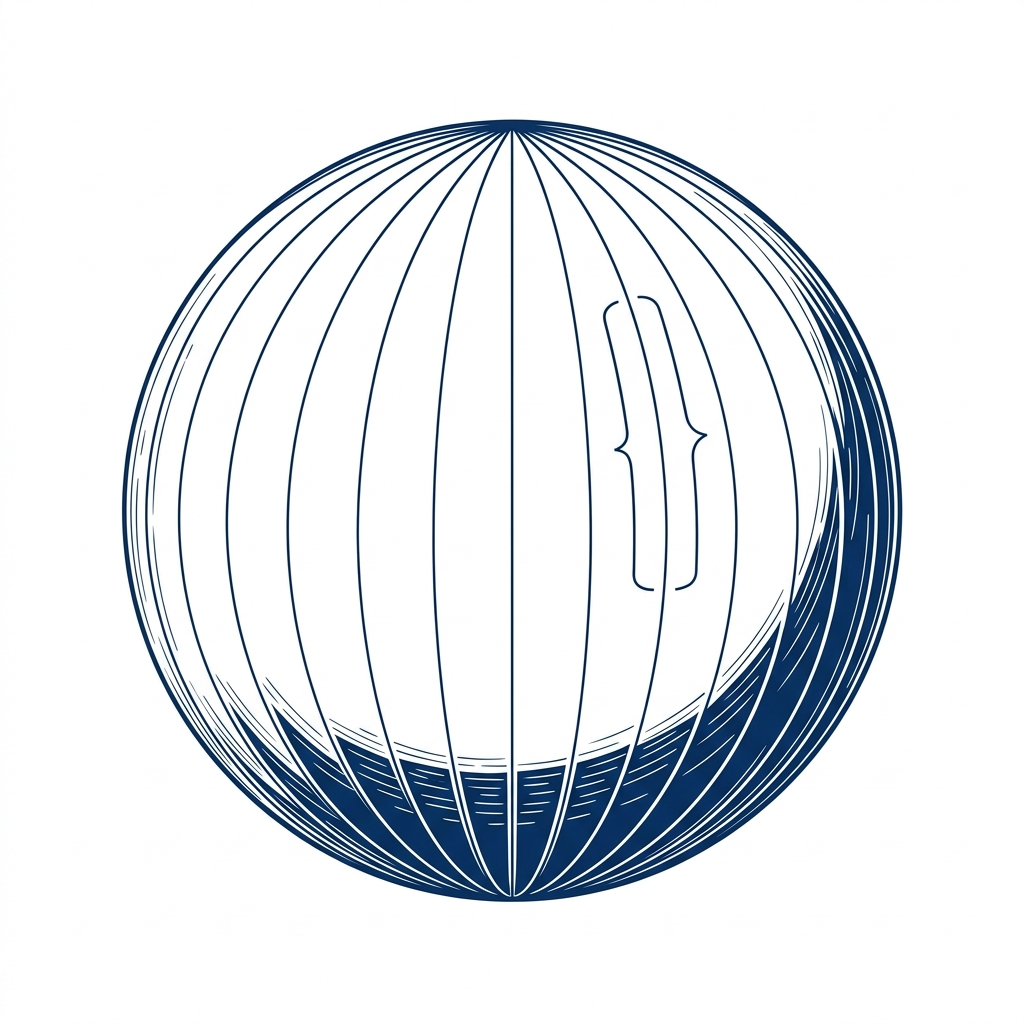
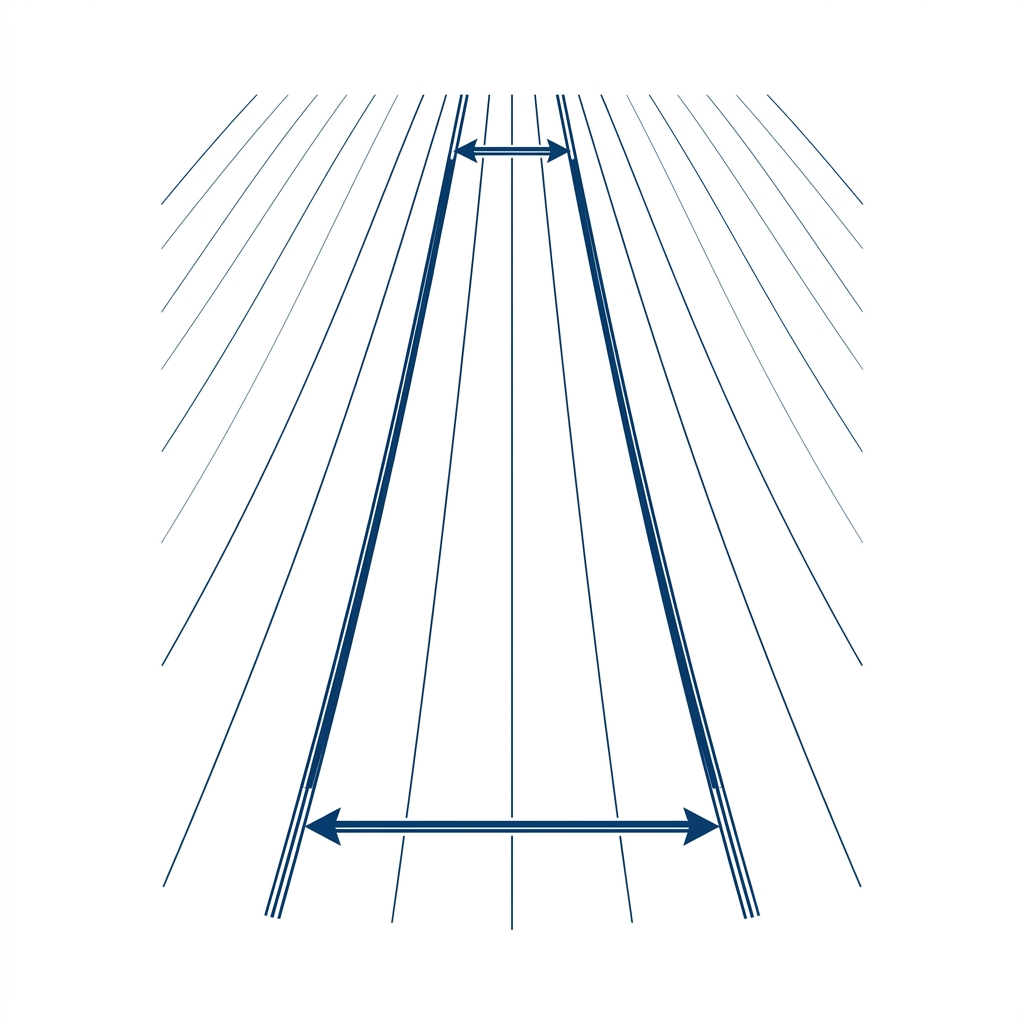
fix: flashcard scoring, Terms label, and redo 3 illustrations
Scoring fix (data flows cleanly through the app):
- Expose cards from useFlashcardSession so FlashcardDeck can reference
  the actual filtered session cards at completion
- Pass masteredIds: sessionCards.map(c => c.id) and score: total —
  completing the deck means you have seen and pressed Next on every card
- This persists correctly to local storage via updateFlashcards, so
  the 0/10 on topic screens survives refresh

Label fix:
- TopicHeader: TERMS → FLASHCARDS (the stat box shows flashcard mastery)

Image redos:
- card-06-position-course-speed-fc-3: clearer meridian spacing diagram
  showing variable distance between meridians at different latitudes
- term-06-latitude: cross-section circle diagram with angle arc, simpler
  than globe render
- term-05-tss: tanker ships in lanes instead of yachts — correct for
  a shipping lane context

Changed region(s): [[0.0938, 0.0938, 0.9062, 0.9062]]

diff --git a/src/components/organisms/FlashcardDeck/FlashcardDeck.tsx b/src/components/organisms/FlashcardDeck/FlashcardDeck.tsx
@@ -16,7 +16,7 @@ interface FlashcardDeckProps {
 }
 
 export function FlashcardDeck({ topicId, cards, cardIds, onComplete, onProgressChange }: FlashcardDeckProps) {
-  const { currentCard, nextCard, isFlipped, flip, next, progress, isComplete, index, total } =
+  const { currentCard, nextCard, isFlipped, flip, next, progress, isComplete, index, total, cards: sessionCards } =
     useFlashcardSession(topicId, cards, cardIds)
 
   const preload = useImagePreload()
@@ -33,9 +33,9 @@ export function FlashcardDeck({ topicId, cards, cardIds, onComplete, onProgressC
 
   useEffect(() => {
     if (isComplete) {
-      onCompleteRef.current({ masteredIds: [], score: 0, total })
+      onCompleteRef.current({ masteredIds: sessionCards.map(c => c.id), score: total, total })
     }
-  }, [isComplete, total])
+  }, [isComplete, total, sessionCards])
 
   if (!currentCard) return null
 

diff --git a/src/components/organisms/TopicHeader/TopicHeader.tsx b/src/components/organisms/TopicHeader/TopicHeader.tsx
@@ -34,7 +34,7 @@ export function TopicHeader({ topic, progress }: TopicHeaderProps) {
         </div>
         <div className="flex-1 flex flex-col gap-1 px-3 py-3.5 border-r border-border">
           <span className="font-heading text-2xl font-medium text-navy">{masteredCards}/{termsCount}</span>
-          <span className="text-xs font-semibold text-text-muted tracking-[1px]">TERMS</span>
+          <span className="text-xs font-semibold text-text-muted tracking-[1px]">FLASHCARDS</span>
         </div>
         <div className="flex-1 flex flex-col gap-1 px-3 py-3.5">
           <span className="font-heading text-2xl font-medium text-navy">{questionsCount}</span>

diff --git a/src/hooks/useFlashcardSession.ts b/src/hooks/useFlashcardSession.ts
@@ -27,5 +27,5 @@ export function useFlashcardSession(_topicId: string, allCards: Flashcard[], car
 
   const nextCard = cards[index + 1] ?? null
 
-  return { currentCard, nextCard, isFlipped, flip, next, prev, progress, isComplete, index, total: cards.length }
+  return { currentCard, nextCard, isFlipped, flip, next, prev, progress, isComplete, index, total: cards.length, cards }
 }
